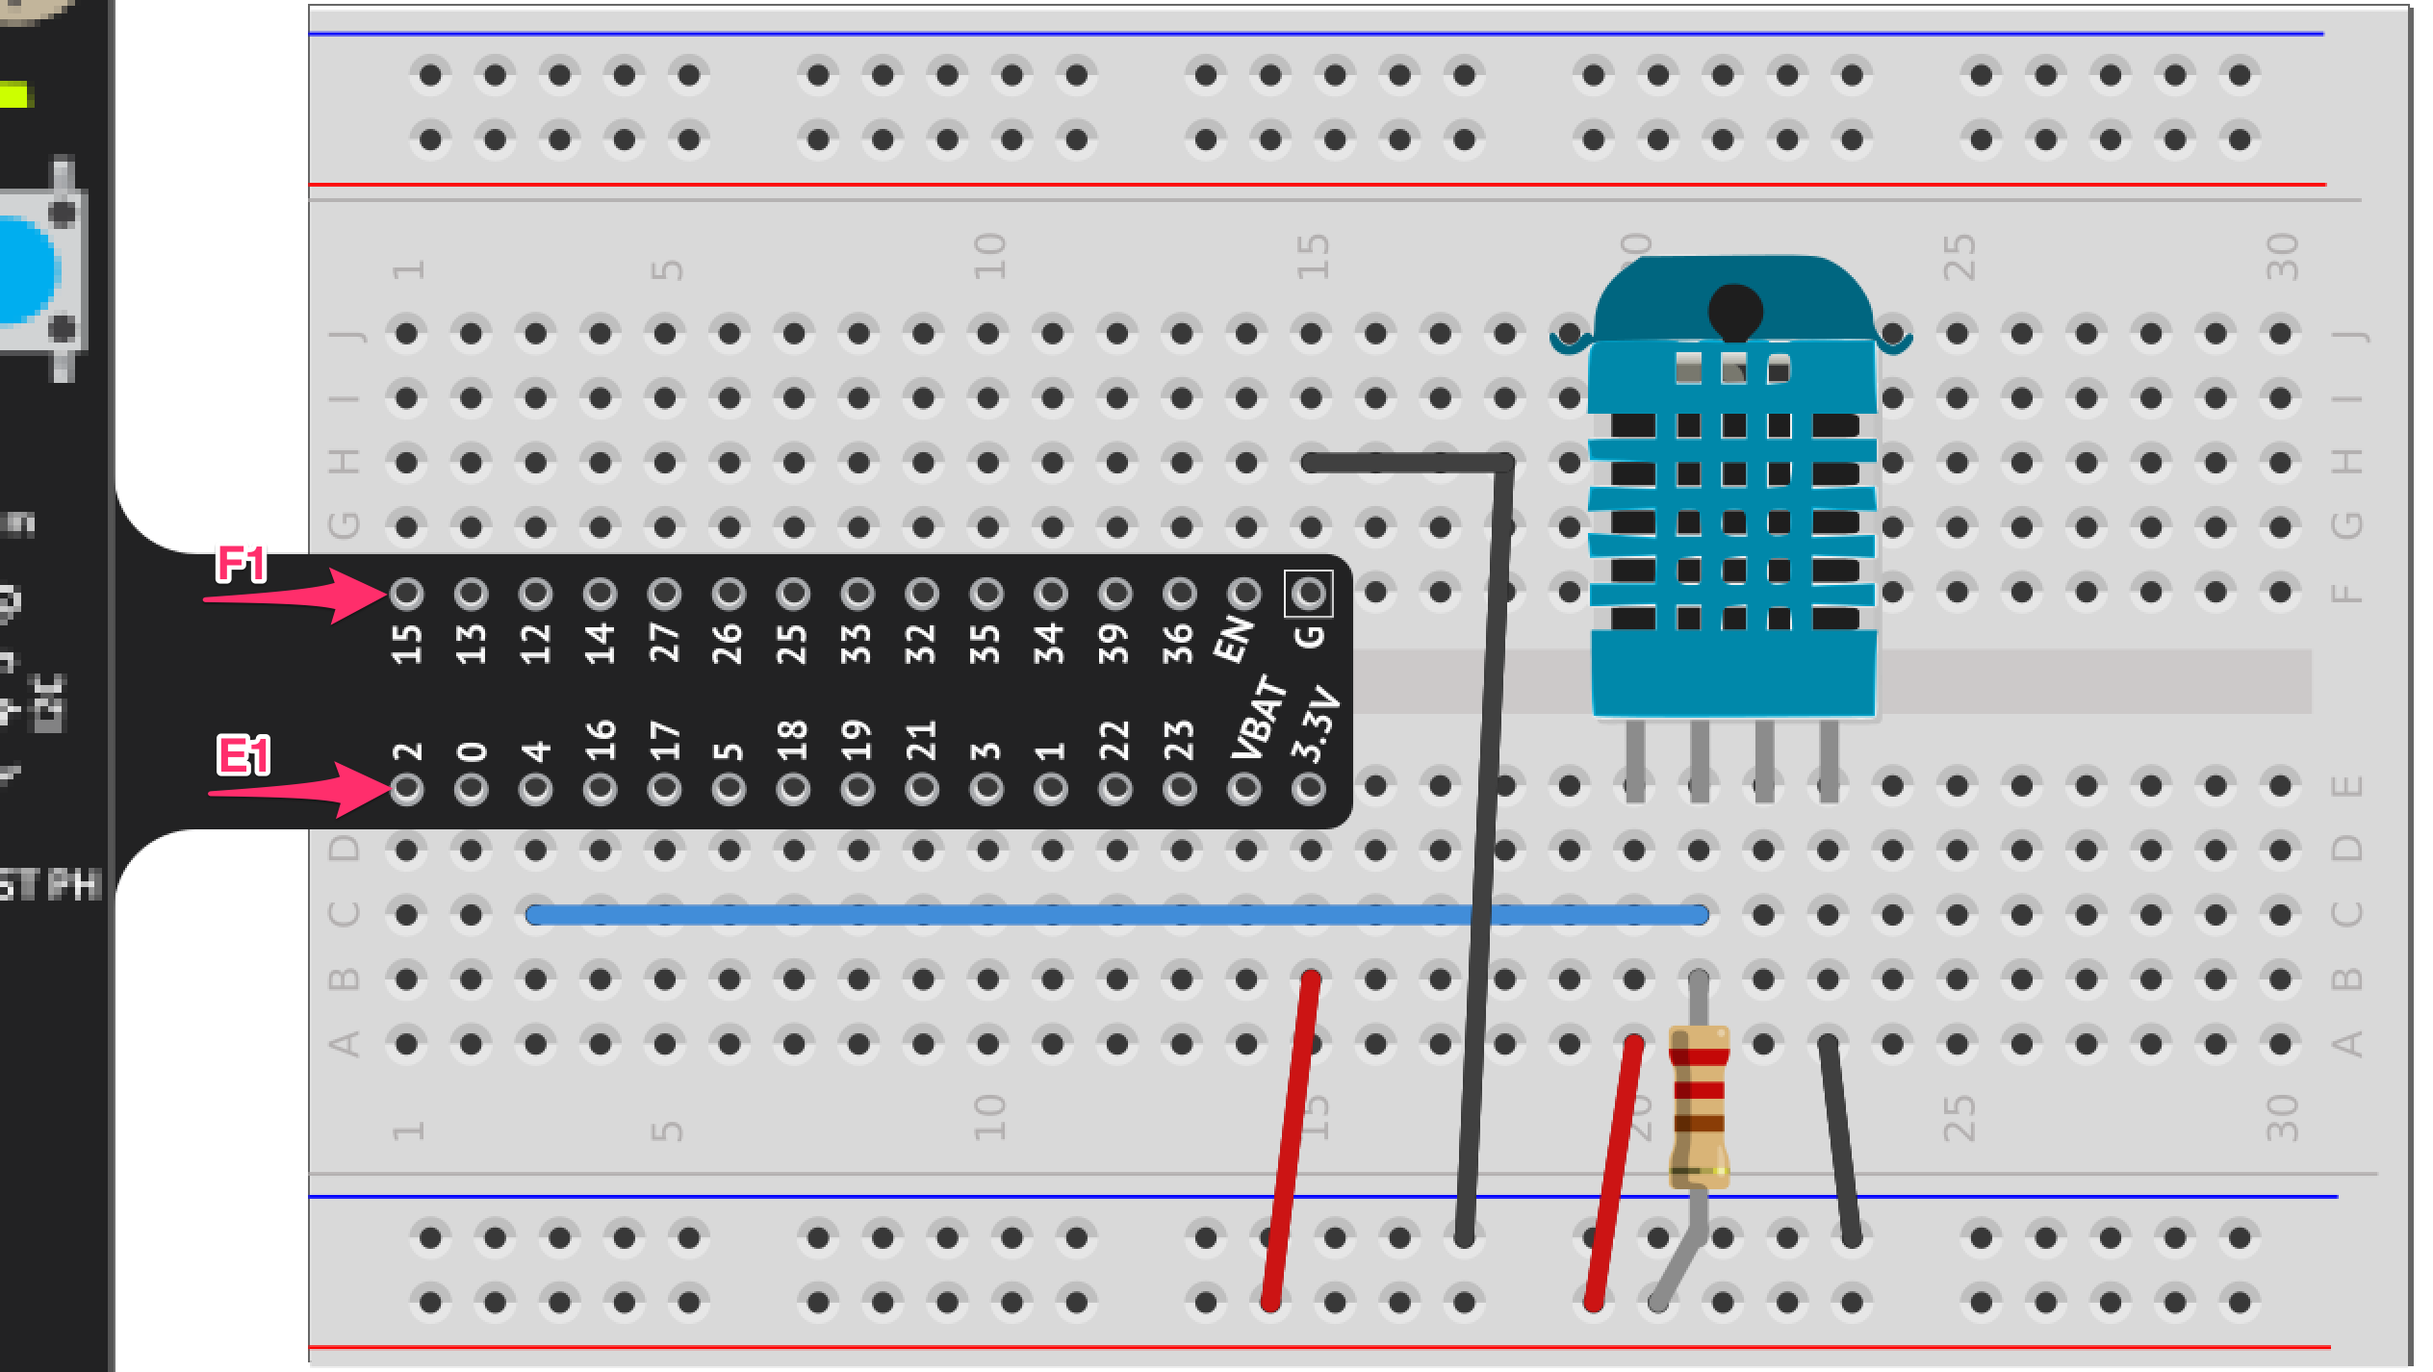
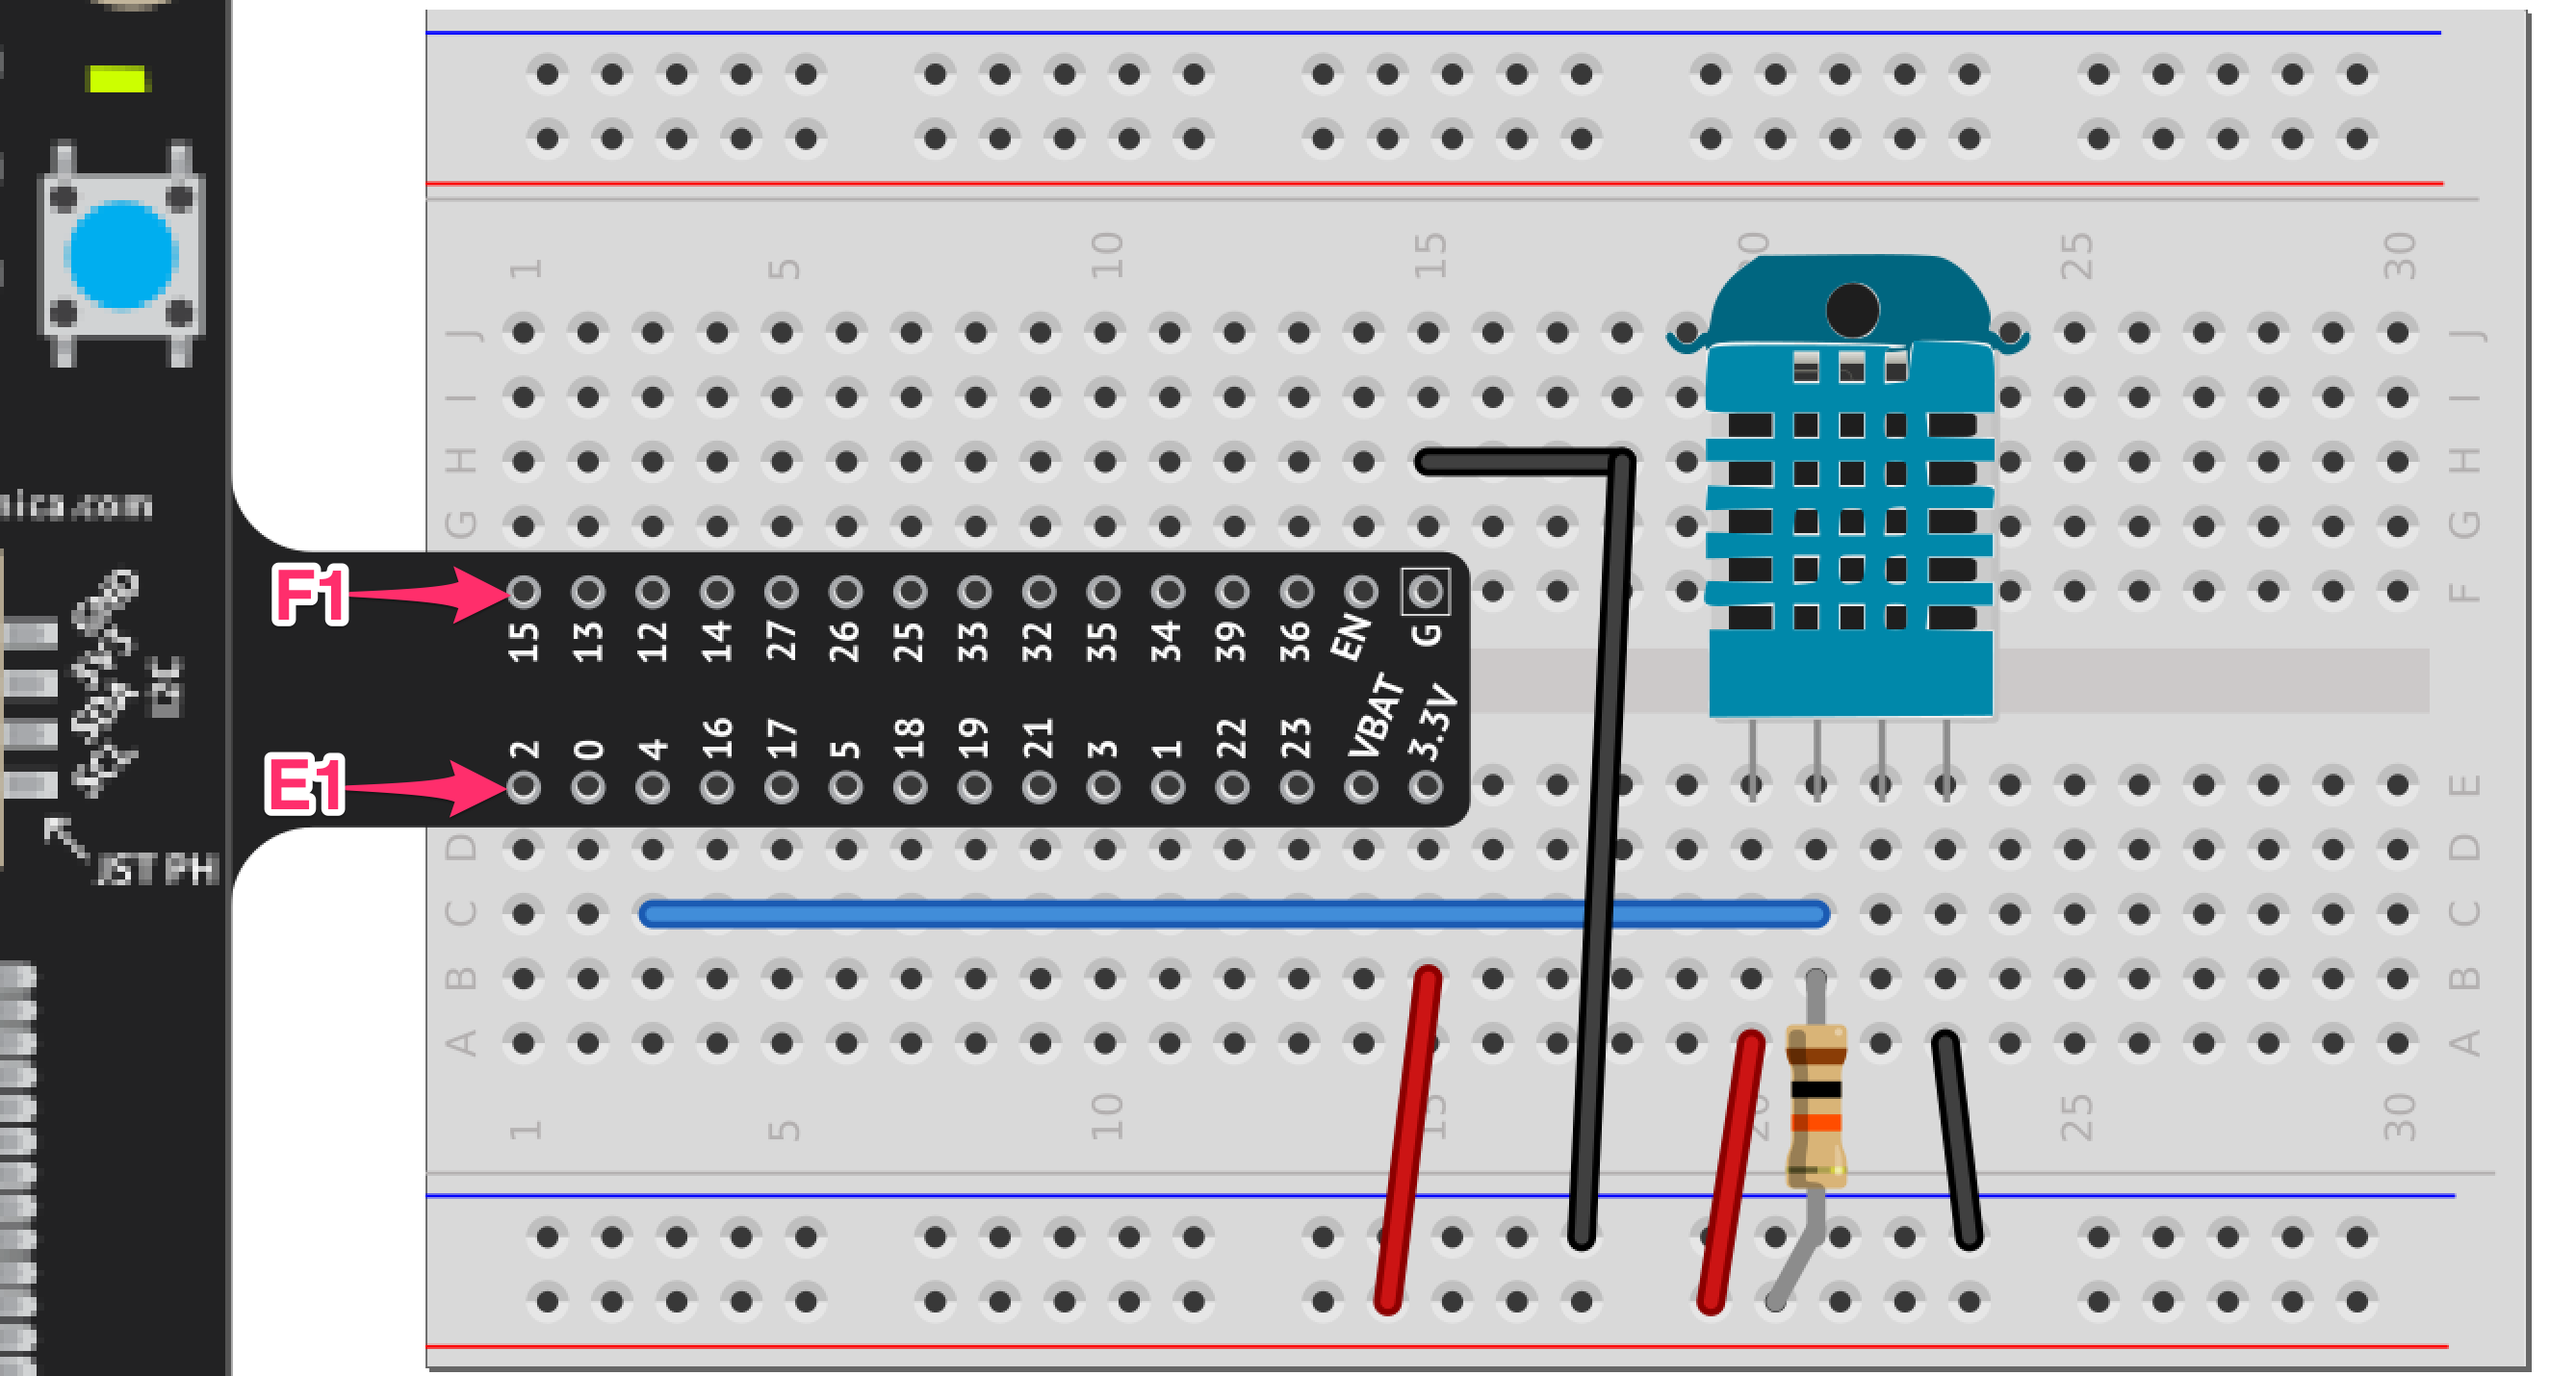
temp and humidity sensor content

Changed region(s): [[0.0, 0.0, 1.0, 1.0]]

diff --git a/docs/source/adding_sensors/adding_sensors.rst b/docs/source/adding_sensors/adding_sensors.rst
@@ -1,52 +1,29 @@
 03 - Adding Sensors
 ==============
 
-Add Config Values to `hello_world.py`
-~~~~~~~~~~~~~~~~~~~~~~~~~~~~~~~~
-- In your IoTanium repository, navigate to ``hello_world.py`` in the root directory, and open that file in a text editor.
-- Edit the lines below, replacing the values with the correct values.  **all values are 100% lower case exactly as shown**::
+Add a Temperature and Humidity Sensor
+--------------------- 
+Locate the small bag of components included with your IoTanium DevKit.  **Note: the jumper wire colors in your DevKit may not match the colors in the diagrams below.  You can use any color wire to make any connection, the wire color is not important.**  Follow the steps below to add a DHT-11 temperature and humidity sensor to your project:
 
-    # config
-    device_id = 'first_last'
-    company_name = 'your_company_name'
-    endpoint = 'aws_iot_endpoint_dns_hostname'
+- The lower portion of your IoTanium hardware is a breadboard adapter.  In order for the lab wiring diagrams to work as expected, your breadboard adapter must be oriented correctly on the breadboard.  To do so, **ensure that pin 2 on the breadboard adapter is inserted in hole E1 on the breadboard, and pin 15 on the breadboard adapter is inserted in hole F1 on the breadboard (see diagram below).**
+- Locate the blue DHT-11 sensor, and turn it so the holes are facing you.  Insert the four wires into holes E20 - E23 on the breadboard.
+- Locate a 10K ohm resistor.  It will be light brown with brown, black, orange, and gold bands.  Connect one end to hole B21, and the other end to any free hole on the red (+) rail on the breadboard.  This is a 'pullup' resistor that will make the DHT11 readings more reliable.
+- With jumper wires, make the following connections:
+   - A20 to any free hole on the red (+) rail.  This provides power to the DHT11.
+   - C21 to C3.  This connects the 'data' pin on the DHT 11 to the input pin 4 on the IoTanium.
+   - A23 to any free hole on the black (-) rail.  This provides ground to the DHT11.
 
-- **Save** the file, and close the text editor.
+- Before continuing, inspect and double check the wiring above, to avoid potentially damaging or destroying your IoTanium developer board.
+- When you are confident your wiring is correct, use jumper wires to connect power and ground from your circuit to the dev board:
+   - B15 to any free hole on the red (+) rail.
+   - H15 to any free hole on the black (-) rail.
 
+Your finished circuit should look like the image below, note that the third pin on the DHT-11 is not used:
 
-Upload files to your IoTanium device
-~~~~~~~~~~~~~~~~~~~~~~~~~~~~~~~~
-- Back in the WebREPL session in your browser, ensure your session is still active. Place your cursor in the REPL console, and press the **Enter** key several times.  If your session is active, each press should return a Python REPL prompt ``>>>``.  If not, click **Disconnect**, refresh the page, and reconnect as before.  Do not proceed until your WebREPL sesssion is active.
+.. image:: ../img/temp_humid_breadboard.png
+    :width: 2550px
+    :align: center
+    :alt: img/assembly.png
 
-- Using the same **Choose File>>Send to device** method that you used during Setup to upload your WiFi connection info, transfer the following three files one at a time to the device:
-
-1. The certificate provided by your instructor, ending in ``-certificate.pem.crt``
-2. The private key provided by your instructor, ending in ``-private.pem.key``
-3. The ``hello_world.py`` file, that you edited above.
-    
-- Ensure each file uploaded sucessfully, by listing the files in the WebREPL::
-
-    >>> import os
-    >>> os.listdir()
-    ['boot.py', 'iotanium_cfg.json', 'ab12345678-certificate.pem.crt', 'ab12345678-private.pem.key', 'hello_world.py']
-    >>> 
-
-- If any uploaded file is missing from the list of files on the device, upload and list again until all three files are listed on the device.
-
-
-Send 'Hello World!' to AWS IoT
-~~~~~~~~~~~~~~~~~~~~~~~~~~~~~~~~
-- In the WebREPL terminal, run the ``hello_world.py`` script, and notice the message publishing logs.  Note: to execute a script manually in Micropython, you ``import`` the script as a module, leaving off the ``.py`` extension as shown below.
-
-    >>> import hello_world
-    published to topic iotsample/company_name/first_last/data: {'message': 'Hello World from first_last'}
-    published to topic iotsample/company_name/first_last/data: {'message': 'Hello World from first_last'}
-    ...
-    ...
-
-- To stop sending messages, type ``CTRL+C`` in your WebREPL console terminal, you will see the execution break below, which is normal::
-
-    Traceback (most recent call last):
-    File "<stdin>", line 2, in <module>
-    KeyboardInterrupt: 
-    >>> 
+Add a Light Sensor
+--------------------- 
